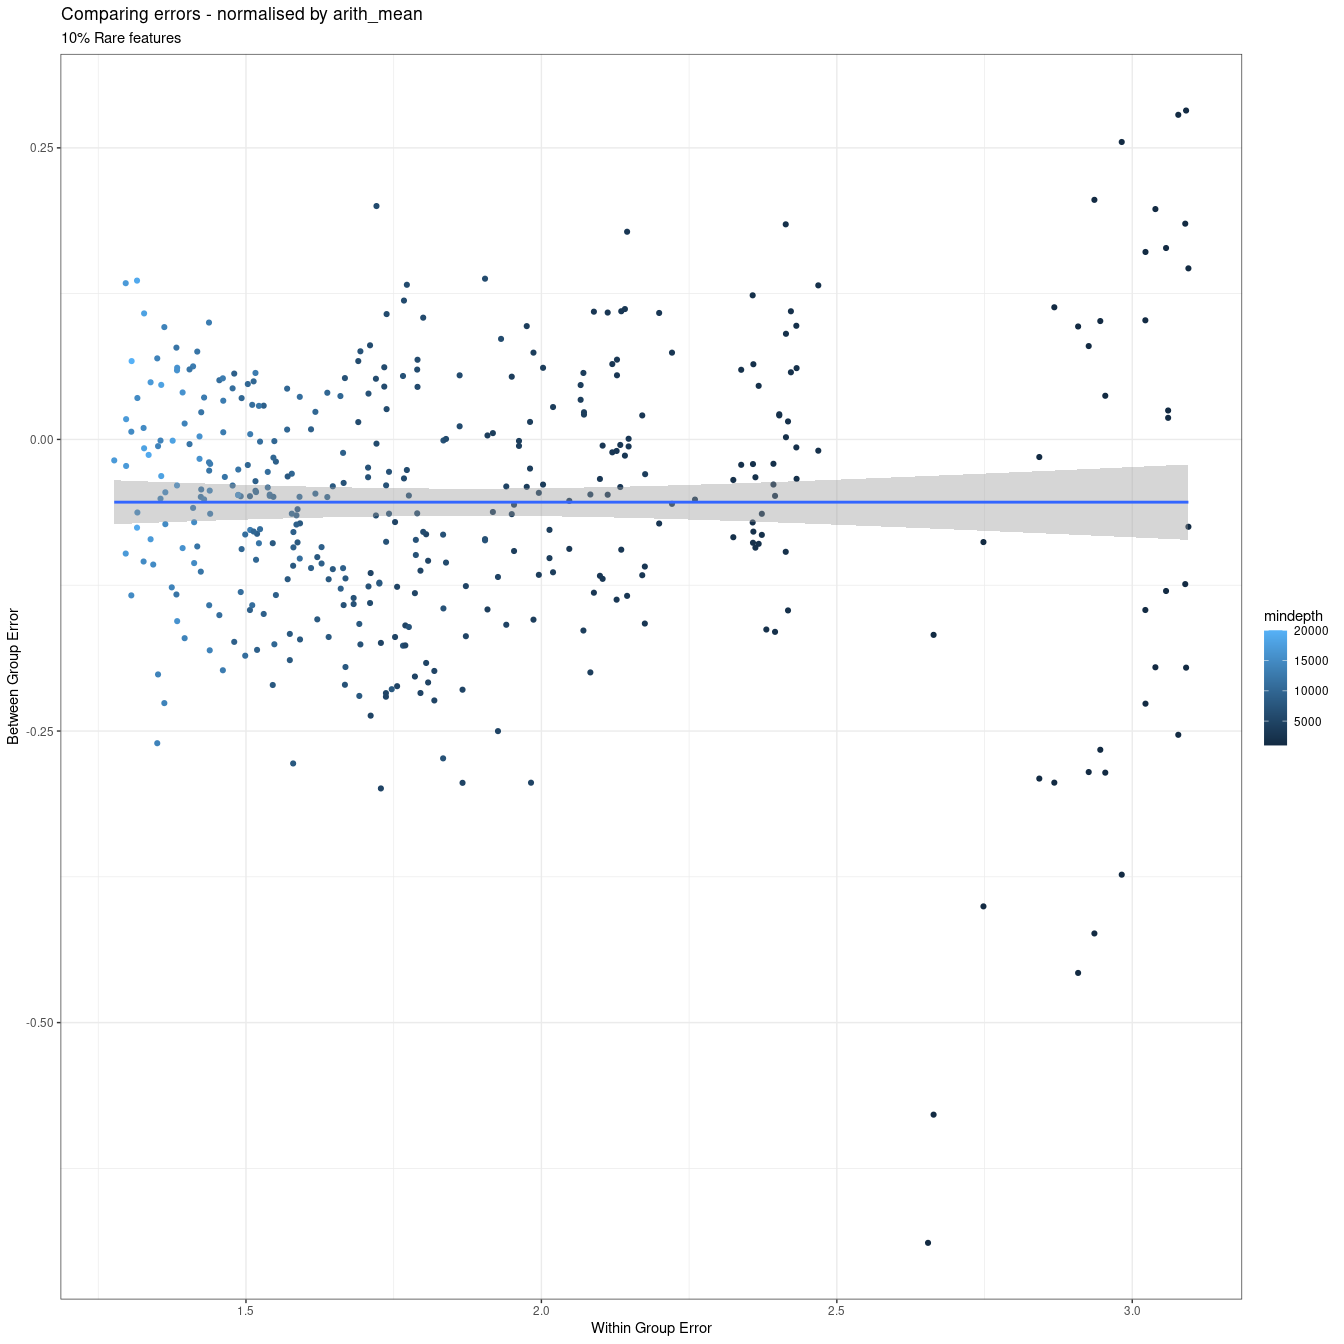
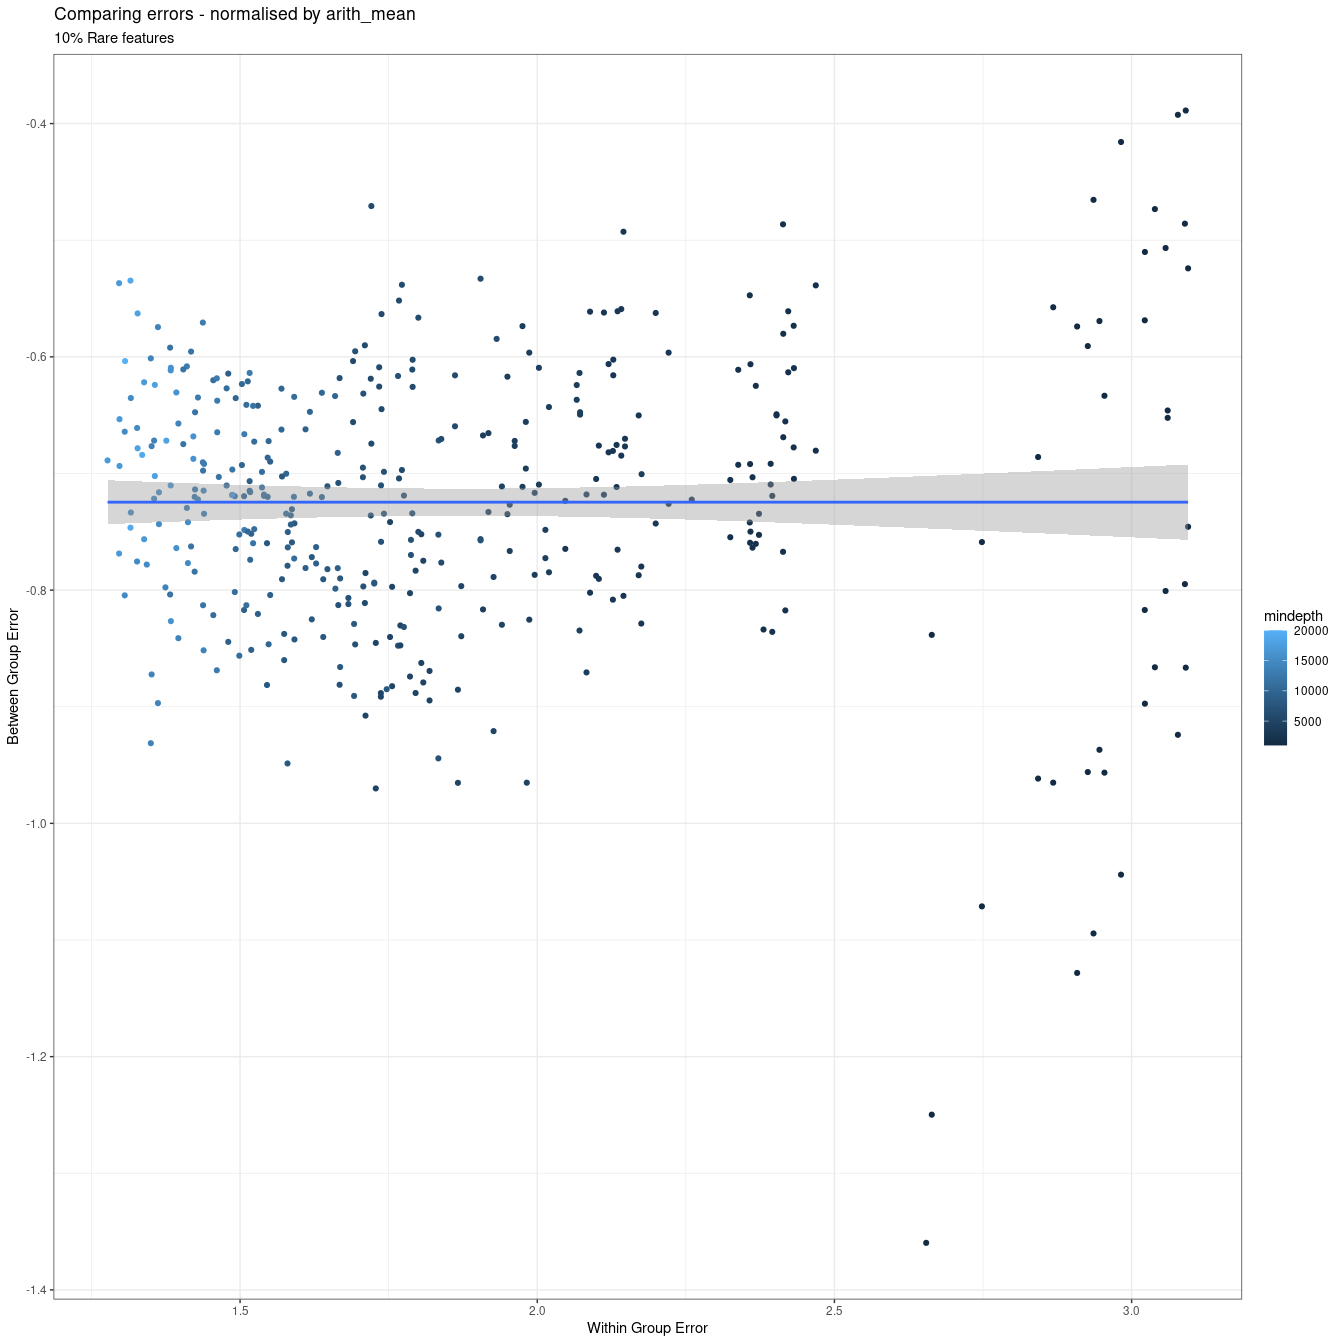
update

diff --git a/docs/bootstrapping_distance.md b/docs/bootstrapping_distance.md
@@ -634,9 +634,9 @@ data.frame(as.matrix(est.dist)) %>%
  #  .$mean_offset %>% mean
   #mutate(mean_offset = mean_offset - sqrt(20)*0.85) %>% 
 
-  mutate(mean_from_20 = mean_offset - sqrt(20)*0.85) %>% 
+  #mutate(mean_from_20 = mean_offset - sqrt(20)*0.85) %>% 
   
-  #mutate(mean_from_20 = mean_offset - sqrt(20)) %>% 
+  mutate(mean_from_20 = mean_offset - sqrt(20)) %>% 
   
   mutate(mindepth = pmin(ID, name)) %>% 
   
